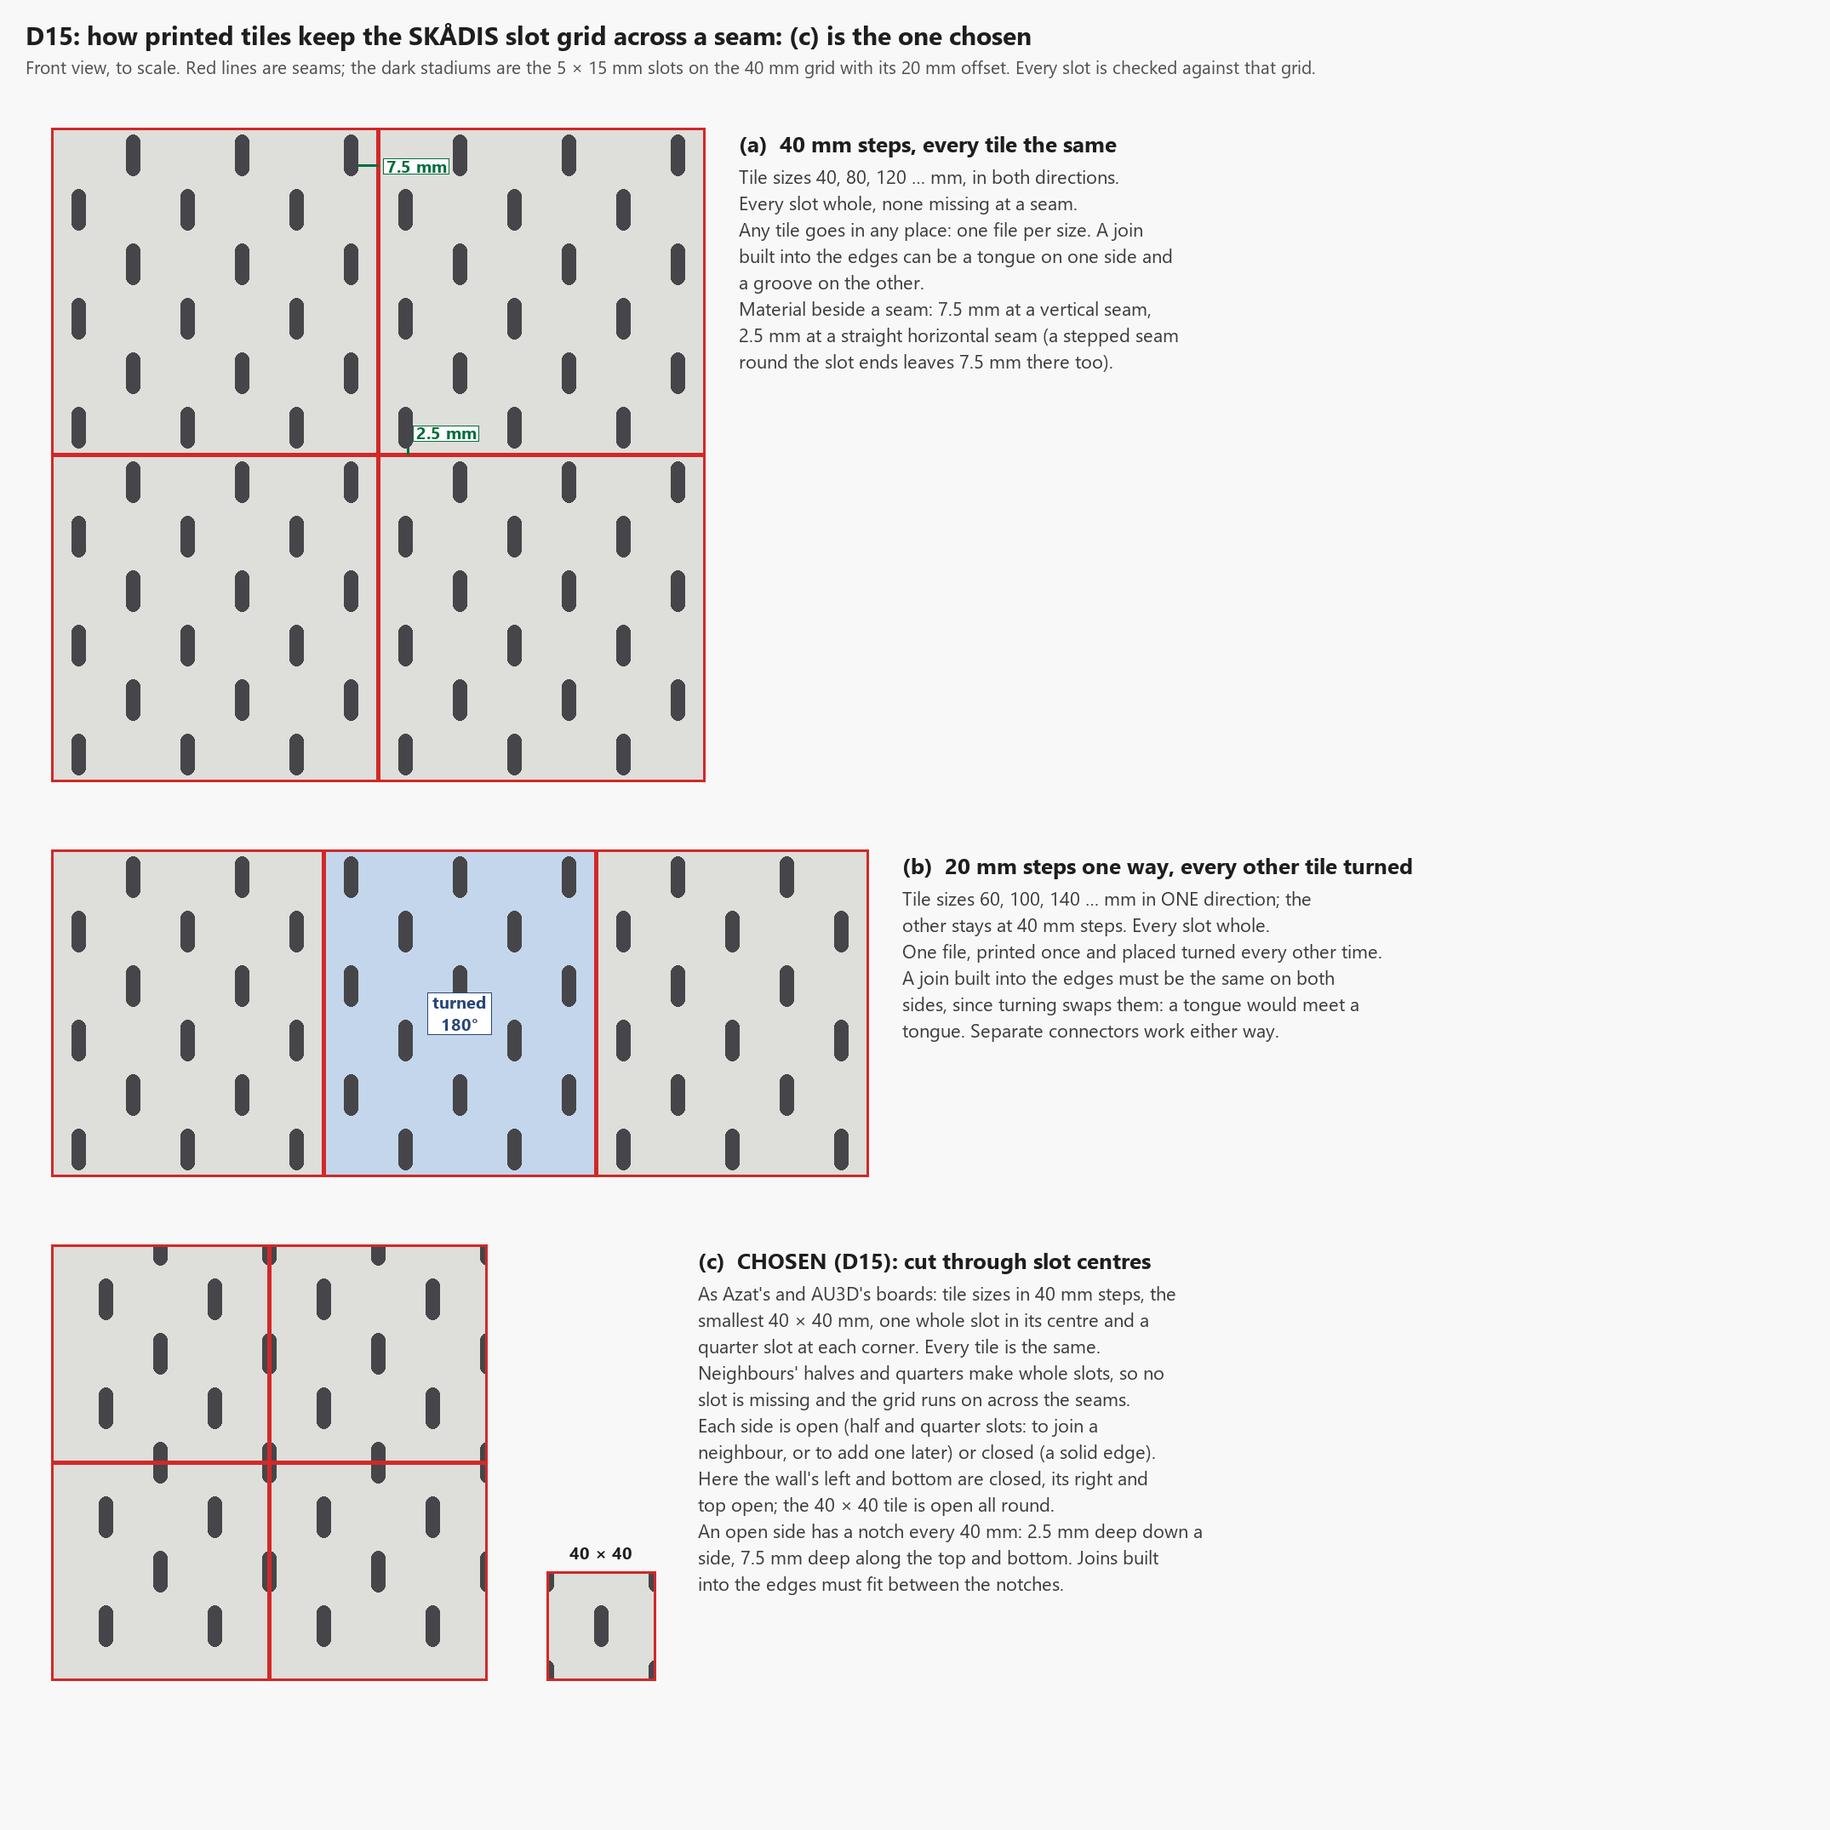
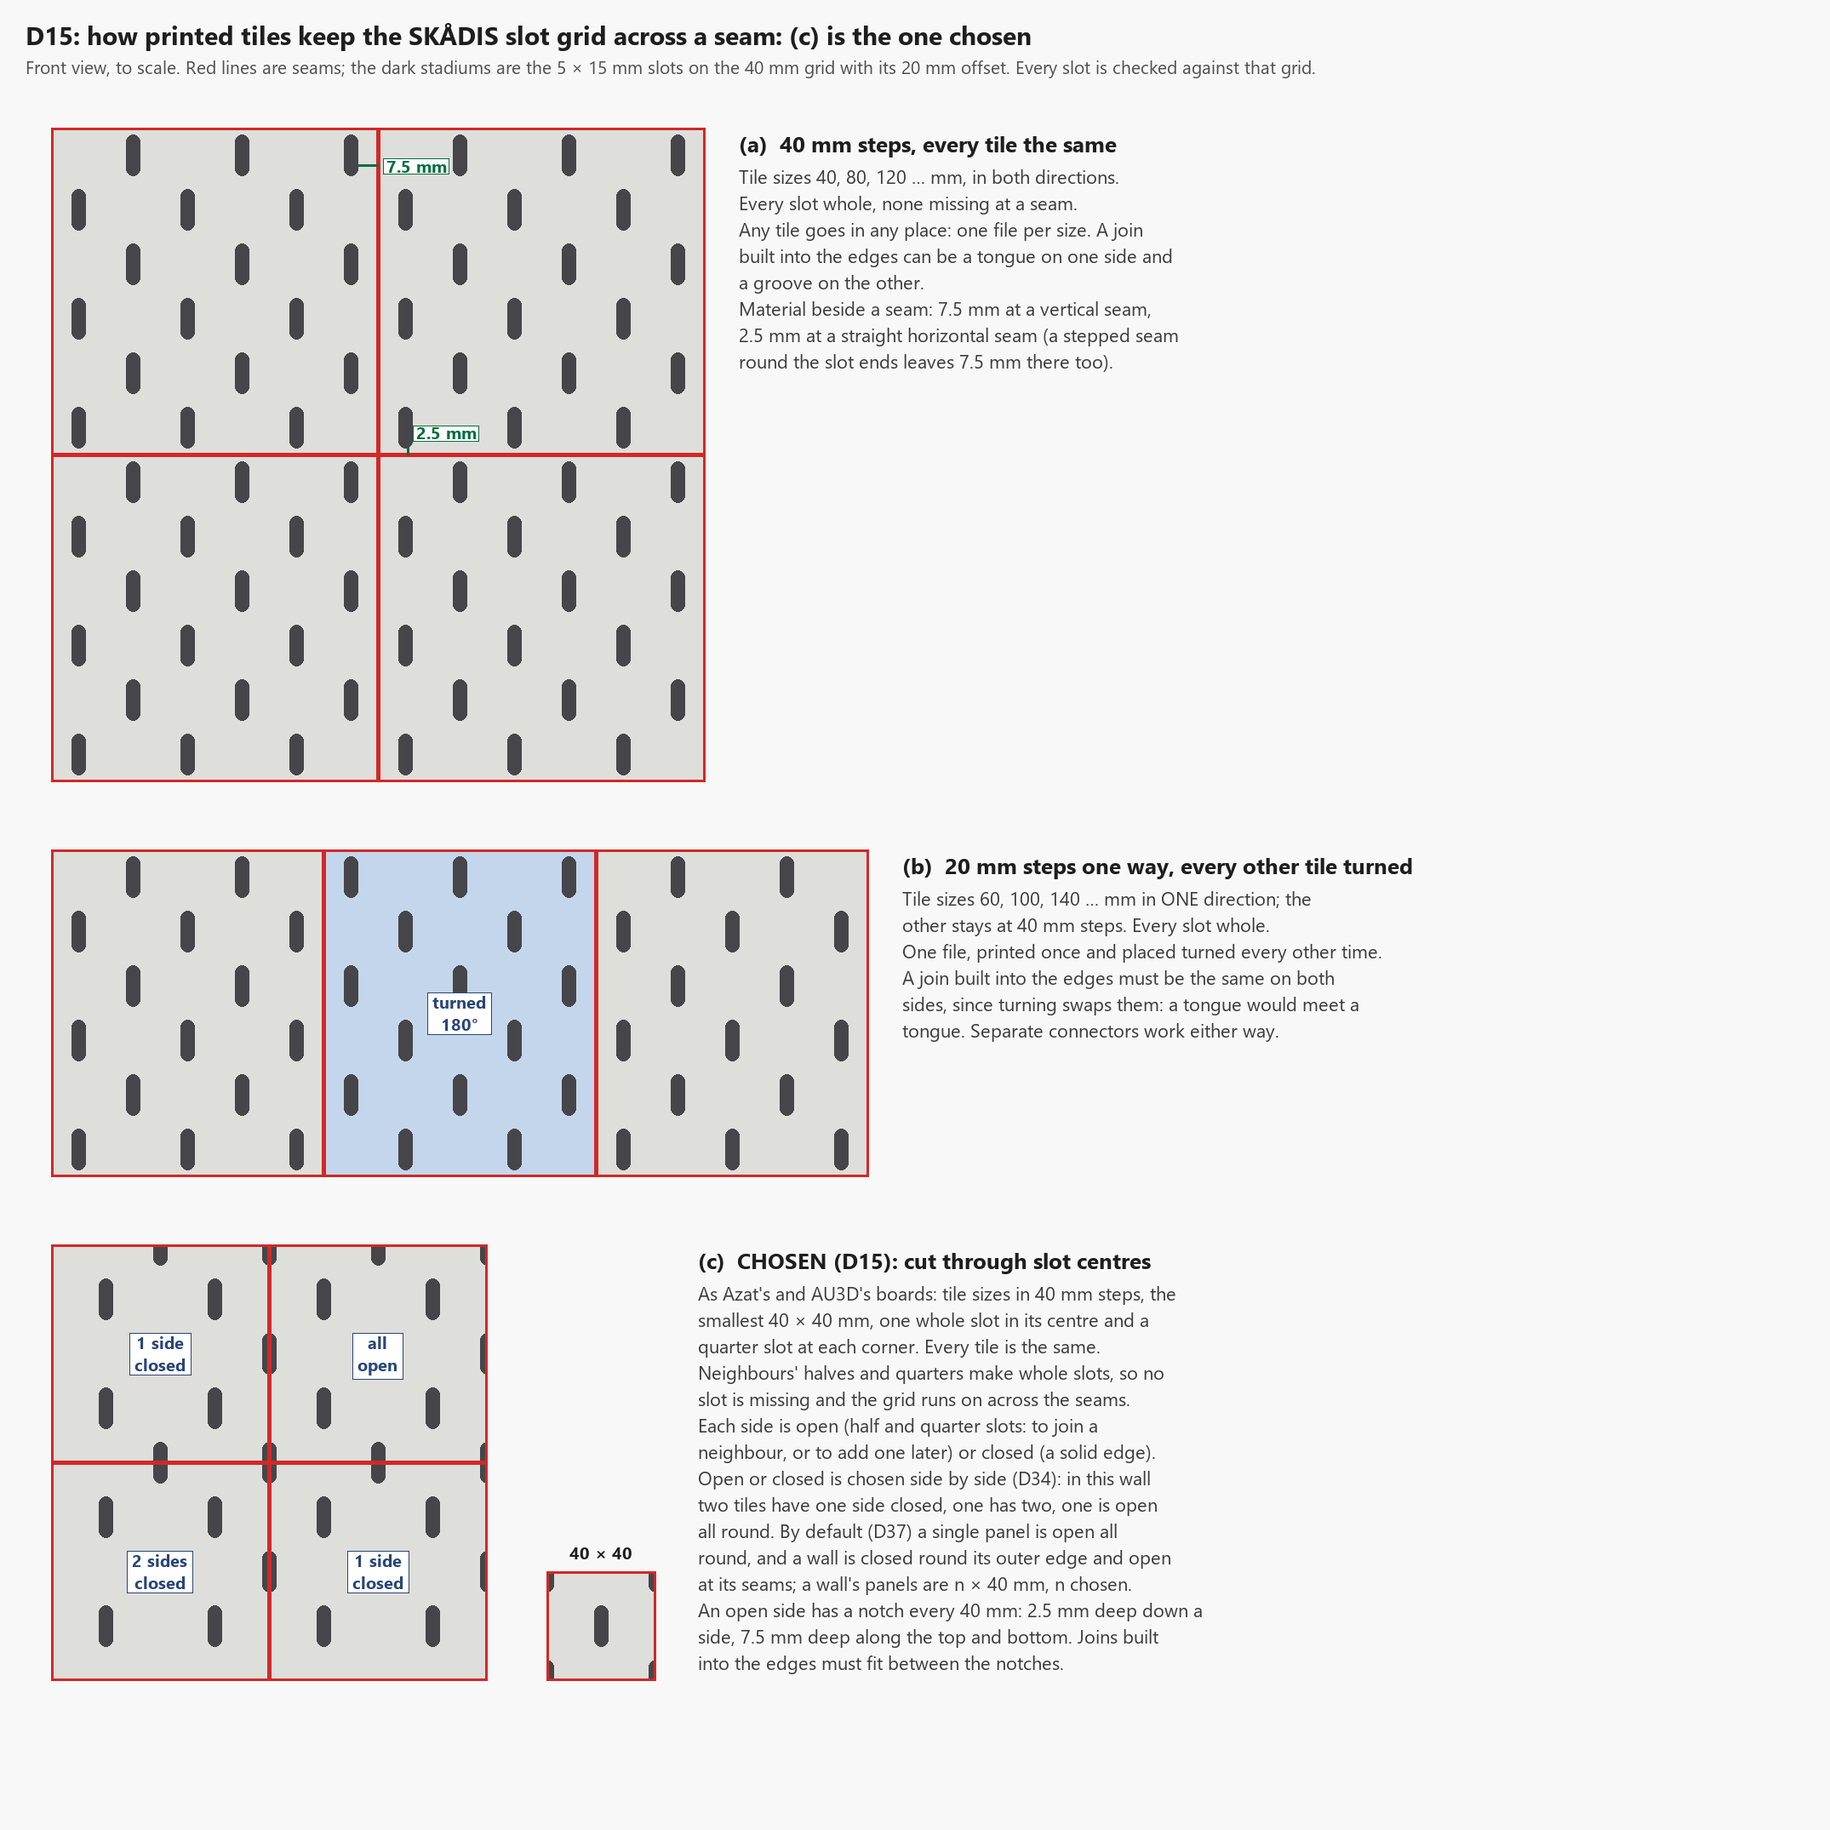
docs(sides): chosen side by side, open by default; the rewrite recorded
D34 (12 Oct 2026): open or closed is chosen for each side of each board
and tile; the figure's panel (c) labels its tiles to show it. D37, the
owner's change to choice C36: a single panel is open all round by
default, a wall is closed round its outer edge and open at its seams,
and a wall's panel size is a whole number of 40 mm tiles. A35 records
the rewrite that dropped the bytecode file; .repo-status says Gitea
still serves the old commit by its full SHA until it prunes.

The kit fixed its commit-msg hook for pre-commit on Windows (its
226de1d); .githooks/commit-msg is that copy now, and README and
CLAUDE.md no longer warn against pre-commit install.

diff --git a/scripts/figures/tile-seams.py b/scripts/figures/tile-seams.py
@@ -199,11 +199,10 @@ def main():
 
     # (c) the chosen design (D15): seams cut through slot columns and rows, half a slot on each open side
     oy = oy + 120 * K + 80
-    wh = 200
     wh = 160
     tiles = [
-        (0, 0, 80, 80, "same", ""), (80, 0, 80, 80, "same", ""),
-        (0, 80, 80, 80, "same", ""), (80, 80, 80, 80, "same", ""),
+        (0, 0, 80, 80, "same", "2 sides\nclosed"), (80, 0, 80, 80, "same", "1 side\nclosed"),
+        (0, 80, 80, 80, "same", "1 side\nclosed"), (80, 80, 80, 80, "same", "all\nopen"),
     ]
     draw_cut_wall(d, ox, oy, 160, wh, tiles, {"right", "top"}, BACKGROUND)
     # the smallest tile on its own, every side open: one whole slot and four quarter slots
@@ -219,8 +218,11 @@ def main():
         "slot is missing and the grid runs on across the seams.",
         "Each side is open (half and quarter slots: to join a",
         "neighbour, or to add one later) or closed (a solid edge).",
-        "Here the wall's left and bottom are closed, its right and",
-        "top open; the 40 × 40 tile is open all round.",
+        "Open or closed is chosen side by side (D34): in this wall",
+        "two tiles have one side closed, one has two, one is open",
+        "all round. By default (D37) a single panel is open all",
+        "round, and a wall is closed round its outer edge and open",
+        "at its seams; a wall's panels are n × 40 mm, n chosen.",
         "An open side has a notch every 40 mm: 2.5 mm deep down a",
         "side, 7.5 mm deep along the top and bottom. Joins built",
         "into the edges must fit between the notches.",

diff --git a/docs/backlog.md b/docs/backlog.md
@@ -33,7 +33,7 @@ that path. None needs the path rebuilt.
 | `repo-bootstrap` | **Done 12 Oct 2026.** Git, identity, the hooks from the convention kit, licences and REUSE, `README.md`, `CLAUDE.md`, `PROJECT.yml`, `.repo-status`, scad-tools as a submodule for its STL checks (C31), pushed to Gitea | P0 | S | | D2, D7, D8 | | | None |
 | `skadis-standard` | [`skadis-standard.md`](skadis-standard.md) reviewed; the survey read in full for anything that must not be published | P0 | S | `repo-bootstrap` | Q3 | | yes | None |
 | `page-skeleton` | The page and the geometry library as one npm workspace: Vite, TypeScript, Vitest, Playwright, oxlint, Prettier, Manifold loaded; a browser test that the built page builds a part | P0 | S | `repo-bootstrap` | D2 | | | None: the reference has it (C32) |
-| `board-solid` | The solid board: the slot grid, in 40 mm steps with its edges through slot centres, each side open (half and quarter slots) or closed (D15), outline and corner radius, thickness. Geometry tests (slot count, pitch, volume), each with a control that must fail; the exported STL is one closed body by scad-tools' `stl-mesh.py` and slices in PrusaSlicer | P0 | M | `page-skeleton` | D2, D11 | slot fit | yes | None significant |
+| `board-solid` | The solid board: the slot grid, in 40 mm steps with its edges through slot centres, each side open (half and quarter slots) or closed, open all round by default (D15, D34, D37), outline and corner radius, thickness. Geometry tests (slot count, pitch, volume), each with a control that must fail; the exported STL is one closed body by scad-tools' `stl-mesh.py` and slices in PrusaSlicer | P0 | M | `page-skeleton` | D2, D11 | slot fit | yes | None significant |
 | `registry` | Board types, options and connectors as one list; the page's controls and the file names derived from it; a contract test over every entry, with a test-only entry | P0 | M | `board-solid` | D6, D11 | | | None: the reference has the pattern |
 | `preview-3d` | 3D preview, updating as the settings change | P0 | S | `page-skeleton` | D2 | | | Triangle count of a large board (C32) |
 | `download-stl` | Download the board as STL, named by type and size | P0 | S | `preview-3d` | D2 | | | None (C32) |
@@ -44,7 +44,7 @@ that path. None needs the path rebuilt.
 | `board-lightened` | Lightened board: pockets between the slots, a rim kept round each slot; a first pattern, then more; a minimum web check | P1 | M | `board-solid` | D11 | yes | | Strength and hook fit of thin webs: test prints |
 | `board-skeleton` | Skeleton (ultralight) board: rims round the slots tied by I-section beams, mostly open, as the owner's pick (Q12) does; beam size, wall count and standoff height as settings | P1 | L | `board-solid` | D11, Q12 | yes | | Stiffness under load and hook fit: users of the original report sagging and hooks that jam; its slots measure exactly 5 × 15 mm with no clearance ([measured](research/2026-10-12-ultralight-measured.md)) |
 | `conn-seam-plate` | Connector 2: a plate behind the seam, fixed through the boards' corner holes, for 2 boards or for 4 where their corners meet; solid, lightened or skeleton; designed afresh (Q18, D13) | P1 | M | `mounting` | D13, Q18 | yes | yes | Matching IKEA's 404.776.46 needs T17 |
-| `tiling` | A board larger than the bed split into tiles cut through slot centres in 40 mm steps, half a slot on each side of a seam (D15); a print list that counts the tiles of each size | P1 | L | `printer-default` | D4, D15 | yes | | Where the split falls when the board is not a multiple of the tile size |
+| `tiling` | A wall: its size, and its panel size as a whole number of 40 mm tiles in each direction (D37), within the bed; panels cut through slot centres, half a slot on each side of a seam (D15); the wall's outer edge closed and its seams open by default (D37); a print list that counts the panels of each size | P1 | L | `printer-default` | D4, D15 | yes | | Where the split falls when the board is not a multiple of the tile size |
 | `edge-joins` | Joins built into the tile edges, between the notches the half slots leave (every 40 mm) | P1 | L | `tiling` | D11 | yes | | Several rounds of test prints for the fit |
 | `conn-slot-clip` | Connector 3: a bar behind the seam with a peg in a slot of each board, for 2 boards, or a cross for 4 (D13) | P1 | M | `tiling` | D13 | yes | yes | Peg fit in a 5 mm slot |
 | `conn-angle` | Connector 4: boards at an angle (90°, 135°), inside or outside, joining 2 boards, or 4 where two meet on each side (D13) | P1 | M | `mounting` | D13 | yes | | None significant |

diff --git a/docs/status.md b/docs/status.md
@@ -41,12 +41,13 @@ connector types drawn in [`figures/connector-types.png`](figures/connector-types
 | A19 | **The plan is approved; build starts with `repo-bootstrap`** | 12 Oct 2026 |
 | A30 | **One of Azat's STLs may be downloaded to measure** its beams and weight; measuring only, nothing copied. Done the same day: [`research/2026-10-12-ultralight-measured.md`](research/2026-10-12-ultralight-measured.md) (an I-section, a quarter of a solid board's plastic, slots at exactly 5 × 15 mm with no clearance, 5 mm standoffs) | 12 Oct 2026 |
 | D15 | **Tiles are cut through slot centres, as Azat's and AU3D's boards are, in 40 mm steps**: the smallest tile, 40 × 40 mm, is one whole slot in its centre and a quarter slot at each corner; a larger tile has half a slot every 40 mm along each side. Tiles of the same pattern side by side make whole slots, so the grid runs on with no slot missing, and every tile is the same, with no mirrored copies. **Each side is open or closed, the user's choice**: open (the half and quarter slots, to join a neighbour or add one later) or closed (a solid edge, those slots left out); a board closed all round has IKEA's 20 mm from edge to first slot. Corrected the same day: 20 mm steps were first recorded, and the owner set 40 mm as the smallest, after measuring Azat's 40 × 40 tile ([measured](research/2026-10-12-ultralight-measured.md), [figure](figures/tile-seams.png)) | 12 Oct 2026 |
+| D34 | **Open or closed is chosen side by side**, on every board and tile. In the figure's panel (c), two tiles have one side closed, one has two, and one is open all round. The defaults are D37 | 12 Oct 2026 |
+| D37 | **The sides' defaults, and a wall's panels** (replacing choice C36): **a single panel is open all round** by default; **a wall is closed round its outer edge** and open at its seams; and for a wall the user sets **the panel size as a whole number of the smallest panel**, n × 40 mm in each direction | 12 Oct 2026 |
+| A35 | **The history is rewritten to drop the bytecode file**: the last three commits replayed without it, signed, with their authors, committers and dates; force-pushed to Gitea with a lease on 12 Oct 2026. Gitea still serves the old commits by their full SHA until it prunes them | 12 Oct 2026 |
 | Q18 | The owner's own plate-connector attempt is **not used**; the seam plate is designed afresh | 12 Oct 2026 |
 
 ## Open questions
 
-- **D34** The default for each side of a single board: closed (an IKEA-like edge) or open (half slots,
-  ready for a neighbour).
 - **T17** The owner's caliper measurements of his board (not blocking: sources first, Q3).
 
 ## Inputs from outside this repository

diff --git a/CLAUDE.md b/CLAUDE.md
@@ -124,13 +124,11 @@ pre-commit run --all-files        # the hooks; run by hand before EVERY commit (
 uvx --from "reuse[charset-normalizer]" reuse lint   # every file has a licence and a copyright notice
 ```
 
-**Do not run `pre-commit install` on the owner's Windows machine.** This clone's `.git/hooks` holds the
-convention kit's hooks (identity, commit message, and the pre-push secret gate) from the git template.
-`pre-commit install` renames them `*.legacy` and runs them itself, and it cannot start the kit's
-commit-msg hook, which begins `#!/bin/sh`: every commit is refused with "Executable `/bin/sh` not
-found" (verified 12 Oct 2026; the admin session measured that the other two, which begin
-`#!/usr/bin/env bash`, do run that way). `pre-commit uninstall` restores them. So the kit hooks run on
-commit and push, and the pre-commit checks are run by hand. A fix to the kit is proposed to the owner.
+**`pre-commit install` and the kit hooks.** `pre-commit install` renames the kit hooks the git template put in
+`.git/hooks` to `*.legacy` and runs them itself. Until 12 Oct 2026 the kit's commit-msg hook began `#!/bin/sh`,
+which pre-commit cannot start on Windows, so every commit was refused; the kit fixed it that day (its commit
+226de1d, `#!/usr/bin/env sh`), and `.githooks/commit-msg` here is that copy. Either way works now: the shim,
+or the kit hooks alone with `pre-commit run --all-files` by hand before every commit.
 
 The page's own checks (type check, lint, format, unit and browser tests, and the STL checks
 through scad-tools) are added with `page-skeleton` and `board-solid`, and listed here then.

diff --git a/docs/choices.md b/docs/choices.md
@@ -24,3 +24,4 @@ number alone always names one item. A withdrawn choice keeps its row and its num
 | C31 | `repo-bootstrap` | **scad-tools stays, for its STL checks only**: `stl-mesh.py` judges every exported part as one closed body from its own edges, and its slicing step slices it in PrusaSlicer. It holds no model of this project's | No scad-tools at all, and checks of our own; the reference's checks alone, which do not slice |
 | C32 | `page-skeleton` | **The reference's own code is copied in where it fits** (STL and 3MF export, the printer list, the three.js preview, the form reading, the download dialog), each file saying where it came from; both repositories are the owner's and MPL-2.0. A package shared by both waits until both are stable (D5) | Depend on the reference's library package; extract a shared package now; write them afresh |
 | C33 | Docs | **The documents credit each published design they cite by its page and its designer's handle**, as the designers' licences ask (CC BY and its variants require attribution); nobody else is named, and the IKEA designer's name in the survey is the one other name, as IKEA's page gives it. `.repo-status` keeps "review the survey before publishing" as a blocker. This is wider than the owner's general rule, which names no exception for credits | Cite each design by its page alone, with no designer named |
+| C36 | — | **Changed by the owner 12 Oct 2026 → D37.** Was: a single board starts closed on every side; when split, the sides between tiles are open | — |

diff --git a/README.md b/README.md
@@ -32,19 +32,13 @@ library and runs in your browser; nothing is sent to a server.
 git clone --recursive <this repository>
 git config user.useConfigOnly true
 uv tool install pre-commit
-pre-commit install          # Windows: read the note below first
+pre-commit install
 bash tests/test-hooks.sh
 pre-commit run --all-files
 ```
 
 `--recursive` fetches `scad-tools`, whose STL checks judge every part the page makes. The commit
 hooks check the commit's identity and message form; [`CLAUDE.md`](CLAUDE.md) lists the rules.
-
-On Windows, if the clone already has hooks in `.git/hooks` (from a git template, say),
-`pre-commit install` moves them aside and runs them itself, and it cannot start one written for
-`#!/bin/sh`, such as the convention kit's commit-msg hook: every commit is then refused with
-"Executable `/bin/sh` not found". There, skip `pre-commit install`, keep git's own hooks, and run
-`pre-commit run --all-files` before each commit.
 
 ## Licence
 
